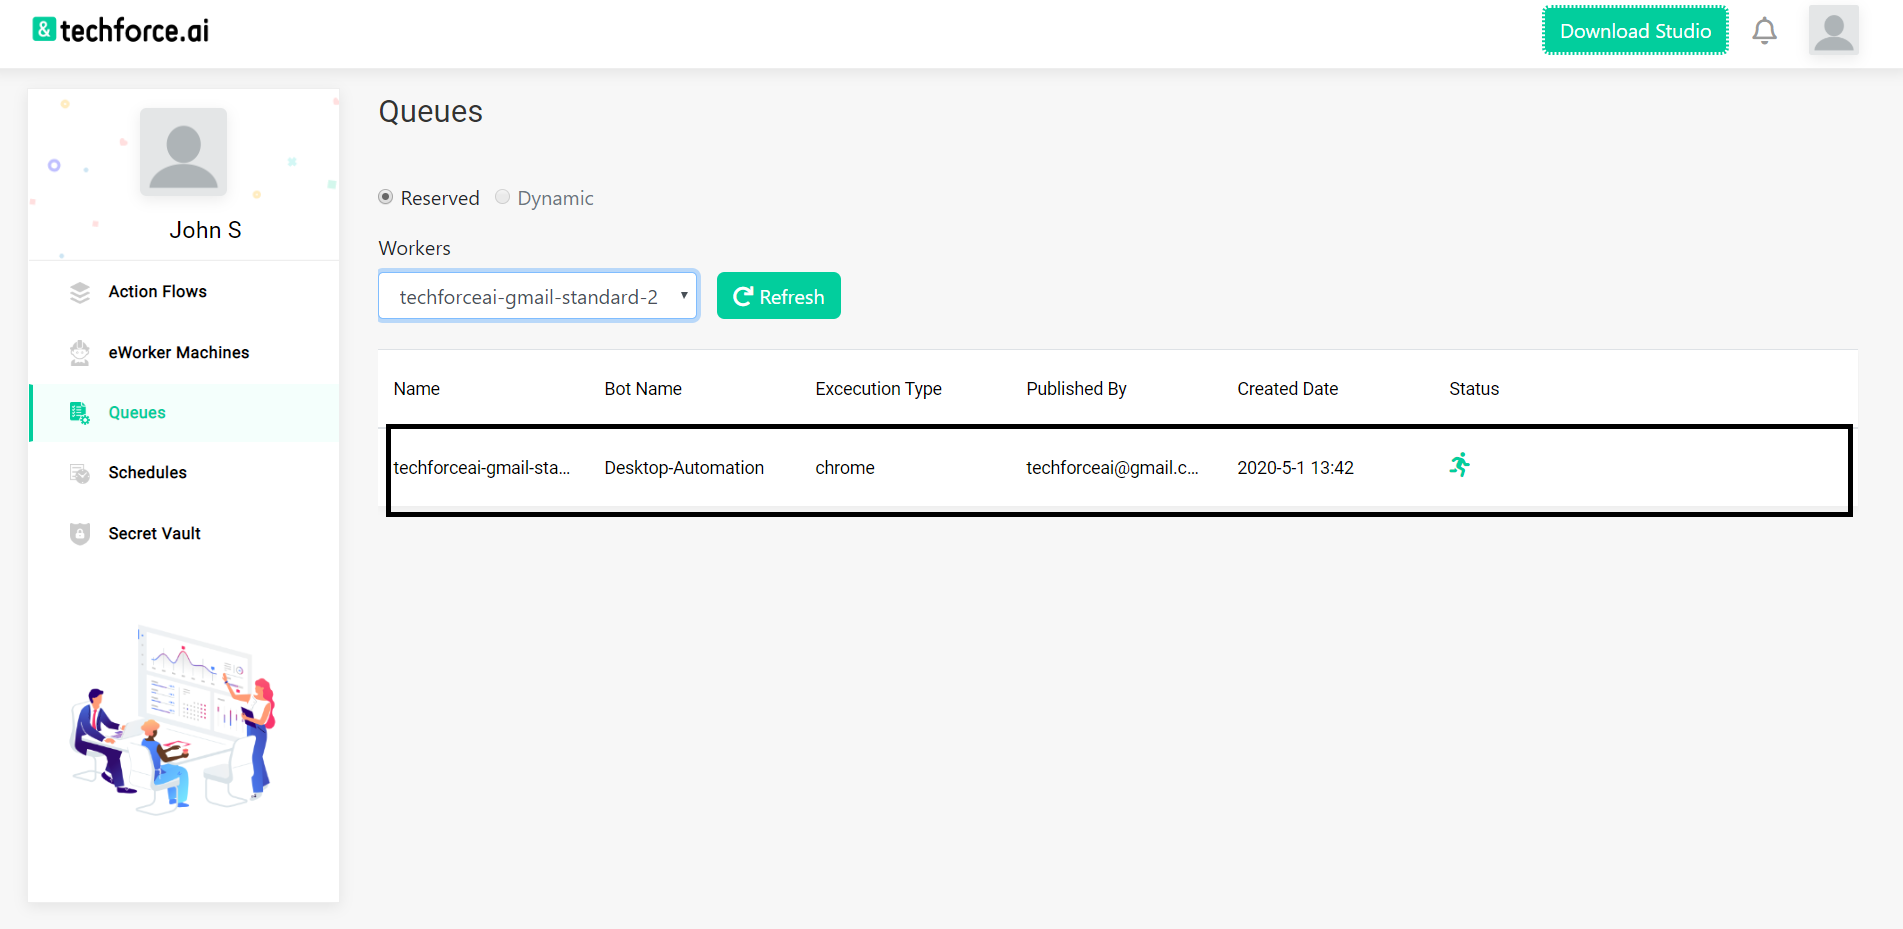
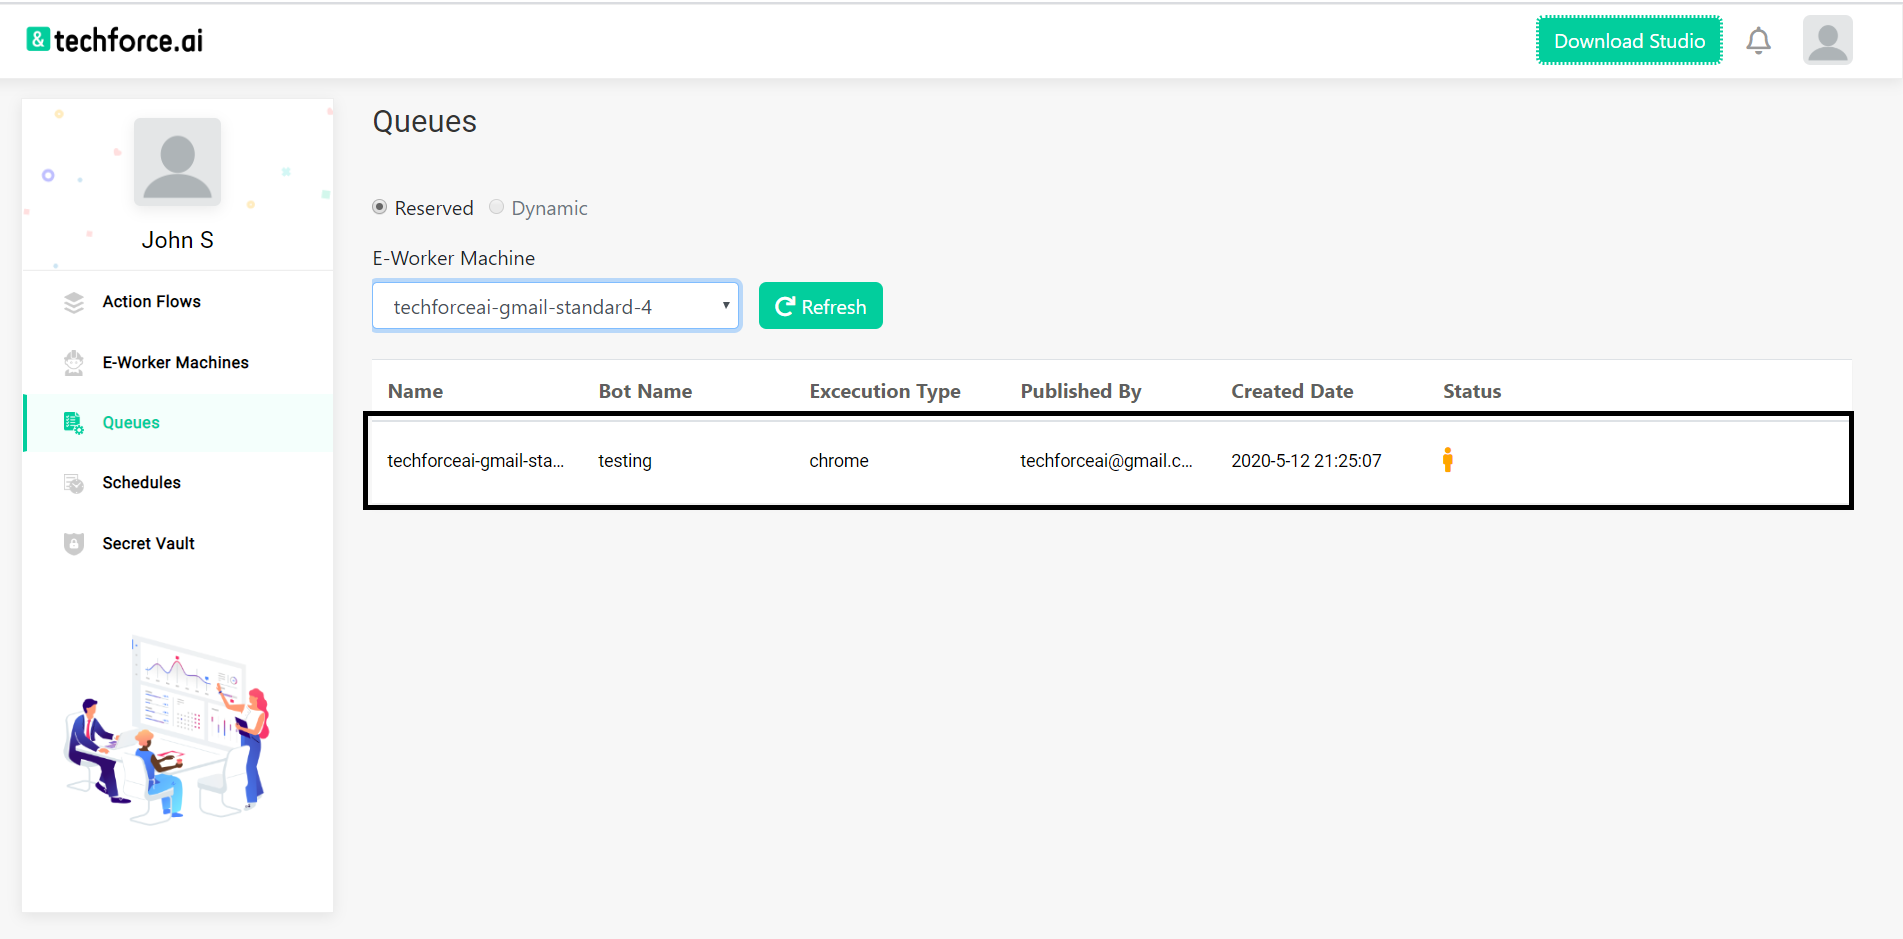
Merge pull request #338 from digitamizers/pssp uheuhue

diff --git a/_layouts/default.html b/_layouts/default.html
@@ -976,7 +976,7 @@
                               <p>5.	 Go to your registered email and click on the verification link to complete the email verification process.</p>
                              <img src="{{ '/assets/images/doc-img115.png' | relative_url }}" alt="image" style="width:600px;text-align:center;border:1px solid green;margin-left:15%;margin-top:10px;margin-bottom:10px;">
                              <p>6.	Once you login to the e-manager console, you will find the Download Studio button at the top right corner. Click on the button to start downloading.</p>
-                             <img src="{{ '/assets/images/doc-img116.png' | relative_url }}" alt="image" style="text-align:center;border:1px solid green;margin-left:0%;margin-top:10px;margin-bottom:10px;">
+                             <img src="{{ '/assets/images/doc-img58.png' | relative_url }}" alt="image" style="text-align:center;border:1px solid green;margin-left:0%;margin-top:10px;margin-bottom:10px;">
                            </div>
 
                            <div id="InstallationInstructions"  class="page-section">
@@ -2486,7 +2486,7 @@
                           <p> Choose the “Action Flow" that you want to Schedule.</p>
                           <h5><span class="numbers">3.</span> Reserved</h5>
                           <p>Select the e-worker machine in which the execution should be done.</p>
-                          <h5><span class="numbers">4.</span> E-Workers Machine</h5>
+                          <h5><span class="numbers">4.</span> E-Worker Machine</h5>
                           <p>Select the e-worker machine in which the execution should be done.</p>
                           <h5><span class="numbers">5.</span> Browser option</h5>
                           <p>Select the Browser option to execute in Chrome, Mozilla Firefox, Microsoft Edge, or headless mode.</p>
@@ -2561,7 +2561,7 @@
 
                          <div id="Software"  class="page-section">
                            <h4 class="skyBlue"><span class="numbers"></span> Software Requirements</h4>
-                           <h5>Worker</h5>
+                           <h5>E-Worker Machine</h5>
                            <h5>OS Compatibility:</h5>
                            <ol>
                            <li><span class="numbers">1.</span><strong> On Premise: </strong>Windows 10 / Windows Server 2016. </li>
@@ -2614,7 +2614,7 @@
 
                          <div id="Registeringworker"  class="page-section">
                              <h4 class="purple"><span class="numbers"></span> Registering E-Worker Machine with E-Manager Console</h4>
-                          <a href="javascript: scrollToForm4();">Refer e-worker machine creation from WorkerManagement</a>
+                          <a href="javascript: scrollToForm4();">Refer e-worker machine creation from Worker Management</a>
                           </div>
 
                          <div id="TriggeringBots"  class="page-section">
@@ -2761,7 +2761,7 @@
                             <h5>Benefits of TechForce.ai Studio Upgraded version </h5>
                             <p>1.	Maintaining the logs of Action Flows.</p>
                             <p>2.	Scheduling the flows.</p>
-                            <p>3.	e-worker machines to select the run environment to execute the flows.</p>
+                            <p>3.	E-Worker Machines to select the run environment to execute the flows.</p>
                             <p>4.	Queues</p>
                             <p>5. Secret Vault</p>
                             <p>6.	Restricted user hierarchy</p>
